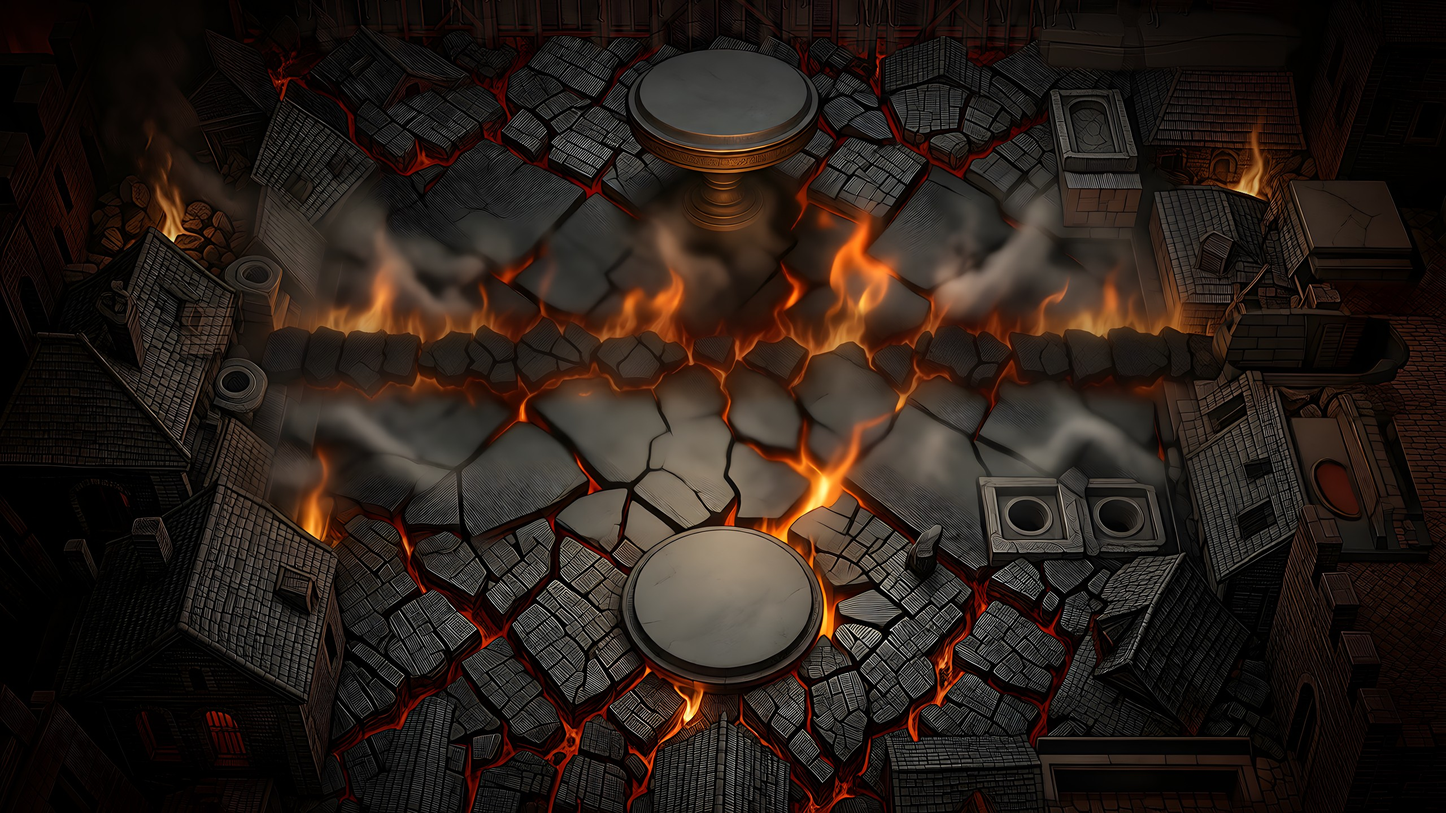
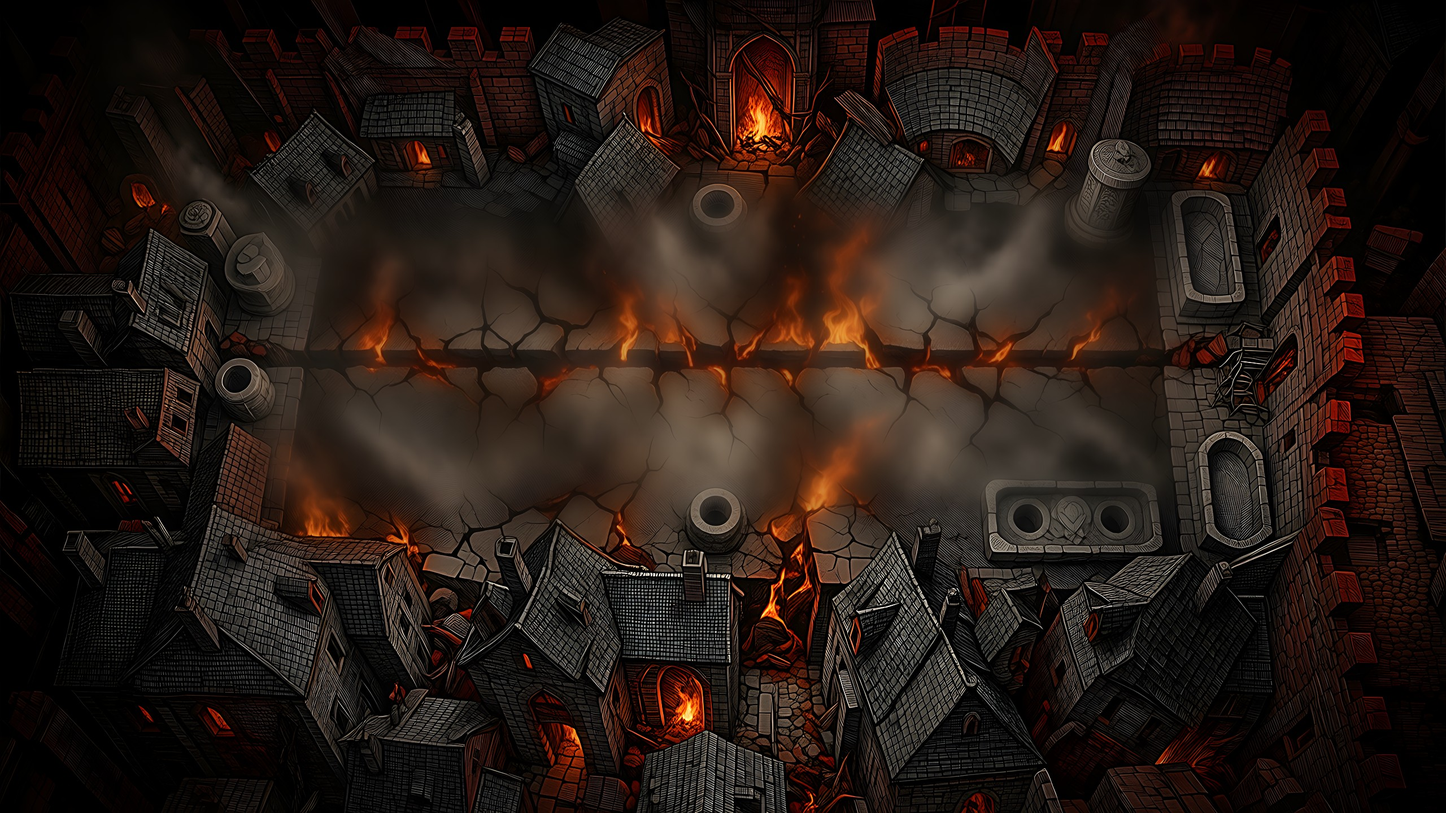
Clean title font, integrated stat numbers, no corner props, Dis/Limbo v3 boards
- Cinzel is rasterised (3x oversampling) instead of MSDF: its overlapping outlines drew spikes and specks.
- Stat numbers sit on each gem's visual centre (UI.gem_number_offset), a little smaller, warm white with a drop
  shadow (UI.raised); the hero's health gem is larger so two digits fit.
- End turn: dark ink engraved in the seal's inner oval (UI.engraved), pale on the enemy's dimmed seal.
- Arena corner props are off unless an arena sets "corner_props": true; the Acheron keeps Charon's boat.
- Dis and Limbo v3 boards (painted on their blockouts) with their normal maps; Dis leaves draft.
- import_arena.py: skips unchanged paintings (a --force run no longer pairs old boards with new normal maps) and
  inserts new keys into arenas.json as text instead of re-dumping the hand-formatted file.
- tests/stat_preview: close-ups of the stat numbers on card, minion and hero.

Claude-Session: https://claude.ai/code/session_01DdQNqCW4E72dFJiXExsGjP

diff --git a/tools/arena/import_arena.py b/tools/arena/import_arena.py
@@ -124,6 +124,9 @@ def main() -> None:
             missing.append(name)
             continue
         data, fn = r
+        src = os.path.join(ROOT, "art_src", "arena", name + ".png")
+        if os.path.exists(out) and os.path.exists(src) and open(src, "rb").read() == data:
+            continue  # the same painting: a --force run must not count it as new (it would pair it with a normal map)
         why = install(data, out, size, alpha)
         if why is not None:
             rejected.append("%s (%s: %s)" % (name, fn, why))
@@ -143,16 +146,26 @@ def main() -> None:
             board = Image.open(board_path)
             Image.open(normal_src).convert("RGB").resize(board.size, Image.LANCZOS).save(
                 os.path.join(ROOT, "assets", "arenas", aid + "_normal.png"))
-        # Point arenas.json at the optional layers once they exist.
-        for key, fn in (("board", aid + "_board.jpg"), ("frame", aid + "_frame.png"), ("mist", aid + "_mist.png"),
-                        ("normal", aid + "_normal.png")):
-            if os.path.exists(os.path.join(ROOT, "assets", "arenas", fn)) and a.get(key) != fn:
-                a[key] = fn
+    # Point arenas.json at the optional layers once they exist. The file is hand-formatted, so a new key is inserted
+    # as text after the arena's "board" line instead of re-dumping the whole file.
     with open(ARENAS_JSON, encoding="utf-8") as f:
-        before = f.read()
-    after = json.dumps(d, indent=2, ensure_ascii=False) + "\n"
-    if json.loads(before) != json.loads(after):
-        open(ARENAS_JSON, "w", encoding="utf-8", newline="\n").write(after)
+        text = f.read()
+    for a in d["arenas"]:
+        aid = a["id"]
+        for key, fn in (("frame", aid + "_frame.png"), ("mist", aid + "_mist.png"), ("normal", aid + "_normal.png")):
+            if not os.path.exists(os.path.join(ROOT, "assets", "arenas", fn)) or a.get(key) == fn:
+                continue
+            anchor = '"board": "%s_board.jpg",' % aid
+            at = text.find(anchor)
+            if key in a or at < 0:
+                print("arenas.json: set %s.%s = %s by hand" % (aid, key, fn))
+                continue
+            indent = text[text.rfind("\n", 0, at) + 1:at]
+            end = at + len(anchor)
+            text = text[:end] + '\n%s"%s": "%s",' % (indent, key, fn) + text[end:]
+            a[key] = fn
+    json.loads(text)  # still valid JSON
+    open(ARENAS_JSON, "w", encoding="utf-8", newline="\n").write(text)
     print("imported %d: %s" % (len(got), " ".join(got) or "-"))
     if rejected:
         print("rejected %d: %s" % (len(rejected), "; ".join(rejected)))

diff --git a/docs/DESIGN.md b/docs/DESIGN.md
@@ -7,8 +7,8 @@
 | `data/cards.json` | every card and hero: stats, keywords, effects, rules text, flavour, art prompt |
 | `data/sets/*.json` | expansion sets (loaded automatically); schema and balance guide in `docs/CARD_SCHEMA.md`, check with `python tools/cards/validate.py` |
 | `data/decks.json` | the two starter decks (30 cards each) |
-| `data/arenas.json` | arenas: name, circle, intro text, music, ambience, painted board / mist, divider kind, ambient particles, tints, tappable props. Each match draws a random arena whose board is installed (never the previous one) |
-| `scripts/battle/arena_props.gd` | `ArenaProps`: an arena's living layer built from its data (divider VFX, ambient, toys); `arena_acheron.gd` subclasses it for Charon's boat and the bell. Sockets: `scenes/arenas/standard.tscn` |
+| `data/arenas.json` | arenas: name, circle, intro text, music, ambience, painted board / mist, divider kind, ambient particles, tints, tappable corner props (shown only with `"corner_props": true`; off everywhere since 2026-10-26: the board plus the middle animations is enough). Each match draws a random arena whose board is installed (never the previous one) |
+| `scripts/battle/arena_props.gd` | `ArenaProps`: an arena's living layer built from its data (divider VFX, ambient, toys); `arena_acheron.gd` subclasses it for Charon's boat (the bell, brazier and skulls are corner props). Sockets: `scenes/arenas/standard.tscn` |
 | `scripts/core/` | `CardDB` (static data access), autoloads `Settings`, `Sfx`, `Game` (scene flow + stats), `Collection` (owned cards, Obols, packs, custom decks in `user://collection.cfg`) |
 | `scripts/battle/battle_state.gd` | **the rules**: pure logic, no nodes; every change goes out as an event |
 | `scripts/battle/ai.gd` | greedy AI that returns one action at a time |
